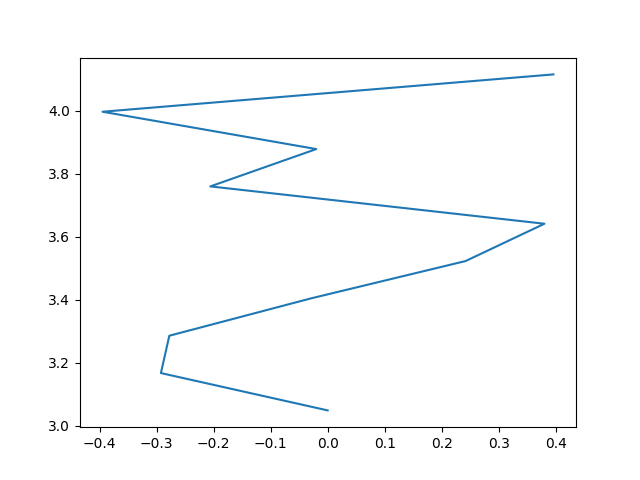
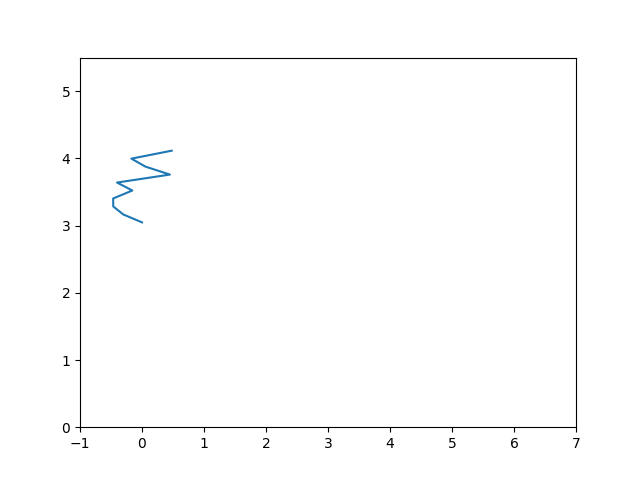
updates

diff --git a/plot_backboard.py b/plot_backboard.py
@@ -1,9 +1,11 @@
 import pylab as plt
 
 def main():
-    plt.plot(  [ 0. ,        -0.29248943, -0.27771843, -0.02937036 , 0.24180453 , 0.38025288,
- -0.2058215,  -0.01991934, -0.39484831,  0.39603953],[3.048,      3.16653333, 3.28506667, 3.4036,     3.52213333, 3.64066667,
+    plt.plot([ 0. ,        -0.30367703 ,-0.463731 ,  -0.46503231 ,-0.15561621, -0.40263566,
+  0.45010631,  0.05560952 ,-0.17089212 , 0.47891272] ,[3.048,      3.16653333, 3.28506667, 3.4036,     3.52213333, 3.64066667,
  3.7592,     3.87773333, 3.99626667, 4.1148    ])
+    plt.xlim(-1,7)
+    plt.ylim(0,5.5)
     plt.savefig("plot-backboard.png")
     plt.show()
 
